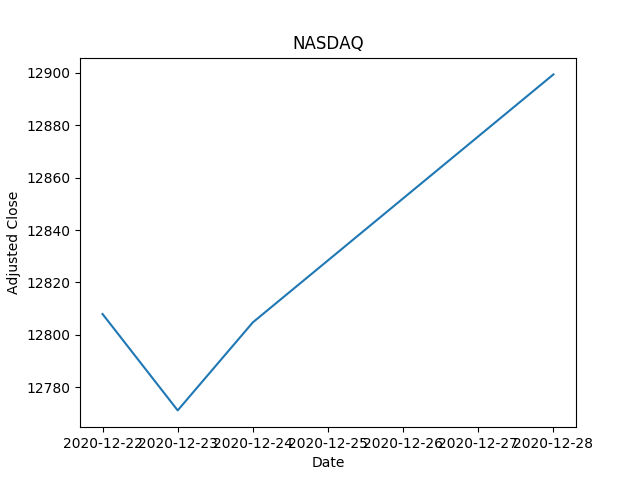
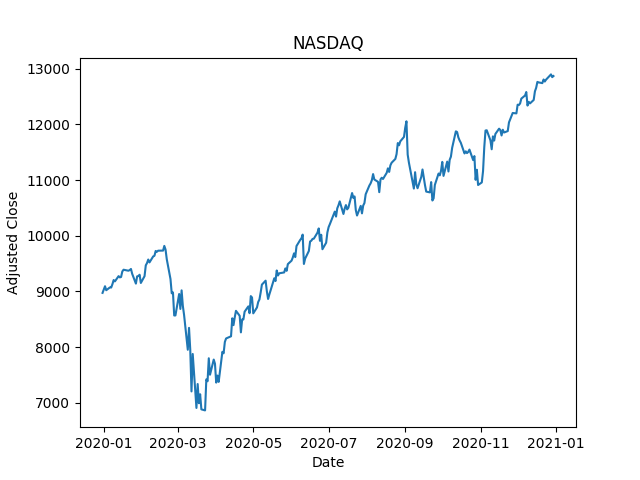
👨❤💋👨🍢 Updated with Glitch

diff --git a/stocks.py b/stocks.py
@@ -5,10 +5,14 @@ matplotlib.use("agg")
 import matplotlib.pyplot as plt
 from datetime import date
 from dateutil.relativedelta import relativedelta
+import os
+import glob
+
+
 def getTicks():
-    date_list = [(date.today() + relativedelta(days=-x)) for x in range(9)]
-    ticks = [None] * 9
-    i = 8
+    date_list = [(date.today() + relativedelta(days=-x)) for x in range(7)]
+    ticks = [None] * 7
+    i = 6
     for x in date_list:
         ticks[i] = x.strftime('%m/%d')
         i= i - 1
@@ -17,9 +21,9 @@ def getTicks():
 
 
 today = date.today()
-oneWeek = date.today() + relativedelta(weeks=-1)
+twoYearsAgo = date.today() + relativedelta(years=-1)
 currentDate = today.strftime("%Y/%m/%d")
-oneWeekAgo = oneWeek.strftime("%Y/%m/%d")
+twoYears = twoYearsAgo.strftime("%Y/%m/%d")
 indexes = [["^dji", "Dow Jones"],['^ixic','NASDAQ'],['^rut',"Russell 2000"], ['^gspc',"S&P 500"]]
 
 
@@ -29,15 +33,20 @@ def makeGraph(prices, stock,file):
     plt.xlabel("Date")
     plt.ylabel("Adjusted Close")
     plt.plot(prices)
-    plt.savefig(file + stock)
+    plt.savefig(file + stock.replace(".",""))
     
     
 def graphIndexes():
   graphs =[]
   for index in indexes:
-        prices = data.DataReader(index[0], start= oneWeekAgo, end= currentDate, data_source='yahoo')['Adj Close']
+        prices = data.DataReader(index[0], start = twoYears, end = currentDate, data_source = "yahoo")['Adj Close']
+
+        # all_weekdays = pd.date_range(start=currentDate, end=oneWeekAgo, freq='B')
+        # prices = prices.reindex(all_weekdays)
+        # prices = prices.fillna(method='ffill')
+
         graphs.append(makeGraph(prices, index[1],"indexes/"))
-  
+  return graphs
 
 def makeList(stocks):
     s = 0
@@ -57,9 +66,13 @@ def getGainers():
 
 def graphGainers(topGainers):
     gainers = []
+    files = glob.glob('gainers/*.png')
+    for f in files:
+        os.remove(f)
     for gainer in topGainers:
-        prices = data.DataReader(gainer[0], start= oneWeekAgo, end= currentDate, data_source='yahoo')['Adj Close']
+        prices = data.DataReader(gainer[0], start= twoYears, end= currentDate, data_source='yahoo')['Adj Close']
         gainers.append(makeGraph(prices, gainer[1],"gainers/"))
+    return gainers
     
 def getLosers():
     losers = pd.read_html('https://finance.yahoo.com/losers')
@@ -69,10 +82,13 @@ def getLosers():
 
 def graphLosers(topLosers):
     losers = []
+    files = glob.glob('losers/*.png')
+    for f in files:
+        os.remove(f)
     for loser in topLosers:
-        prices = data.DataReader(loser[0], start= oneWeekAgo, end= currentDate, data_source='yahoo')['Adj Close']
+        prices = data.DataReader(loser[0], start= twoYears, end= currentDate, data_source='yahoo')['Adj Close']
         losers.append(makeGraph(prices, loser[1],"losers/"))
-    
+    return losers
 def run():
     graphIndexes()
     graphGainers(getGainers())

diff --git a/server.py b/server.py
@@ -5,12 +5,15 @@ import os
 
 
 app = Flask(__name__)
+
+dailyIndexes = stocks.graphIndexes()
+dailyGainers = stocks.graphGainers(stocks.getGainers())
 @app.route('/upload/<filename>')
 def send_image(filename):
-  if (filename in os.listdir('./indexes')):
+  if (filename in os.listdir("indexes/")):
     return send_from_directory("indexes",filename)
-  elif (filename in os.listdir('./gainers')):
-    return send_from_directory("gainers",filename)
+  elif(filename in os.listdir("gainers/")):
+   return send_from_directory("gainers",filename)
   else:
     return send_from_directory("losers",filename)
 @app.route("/")
